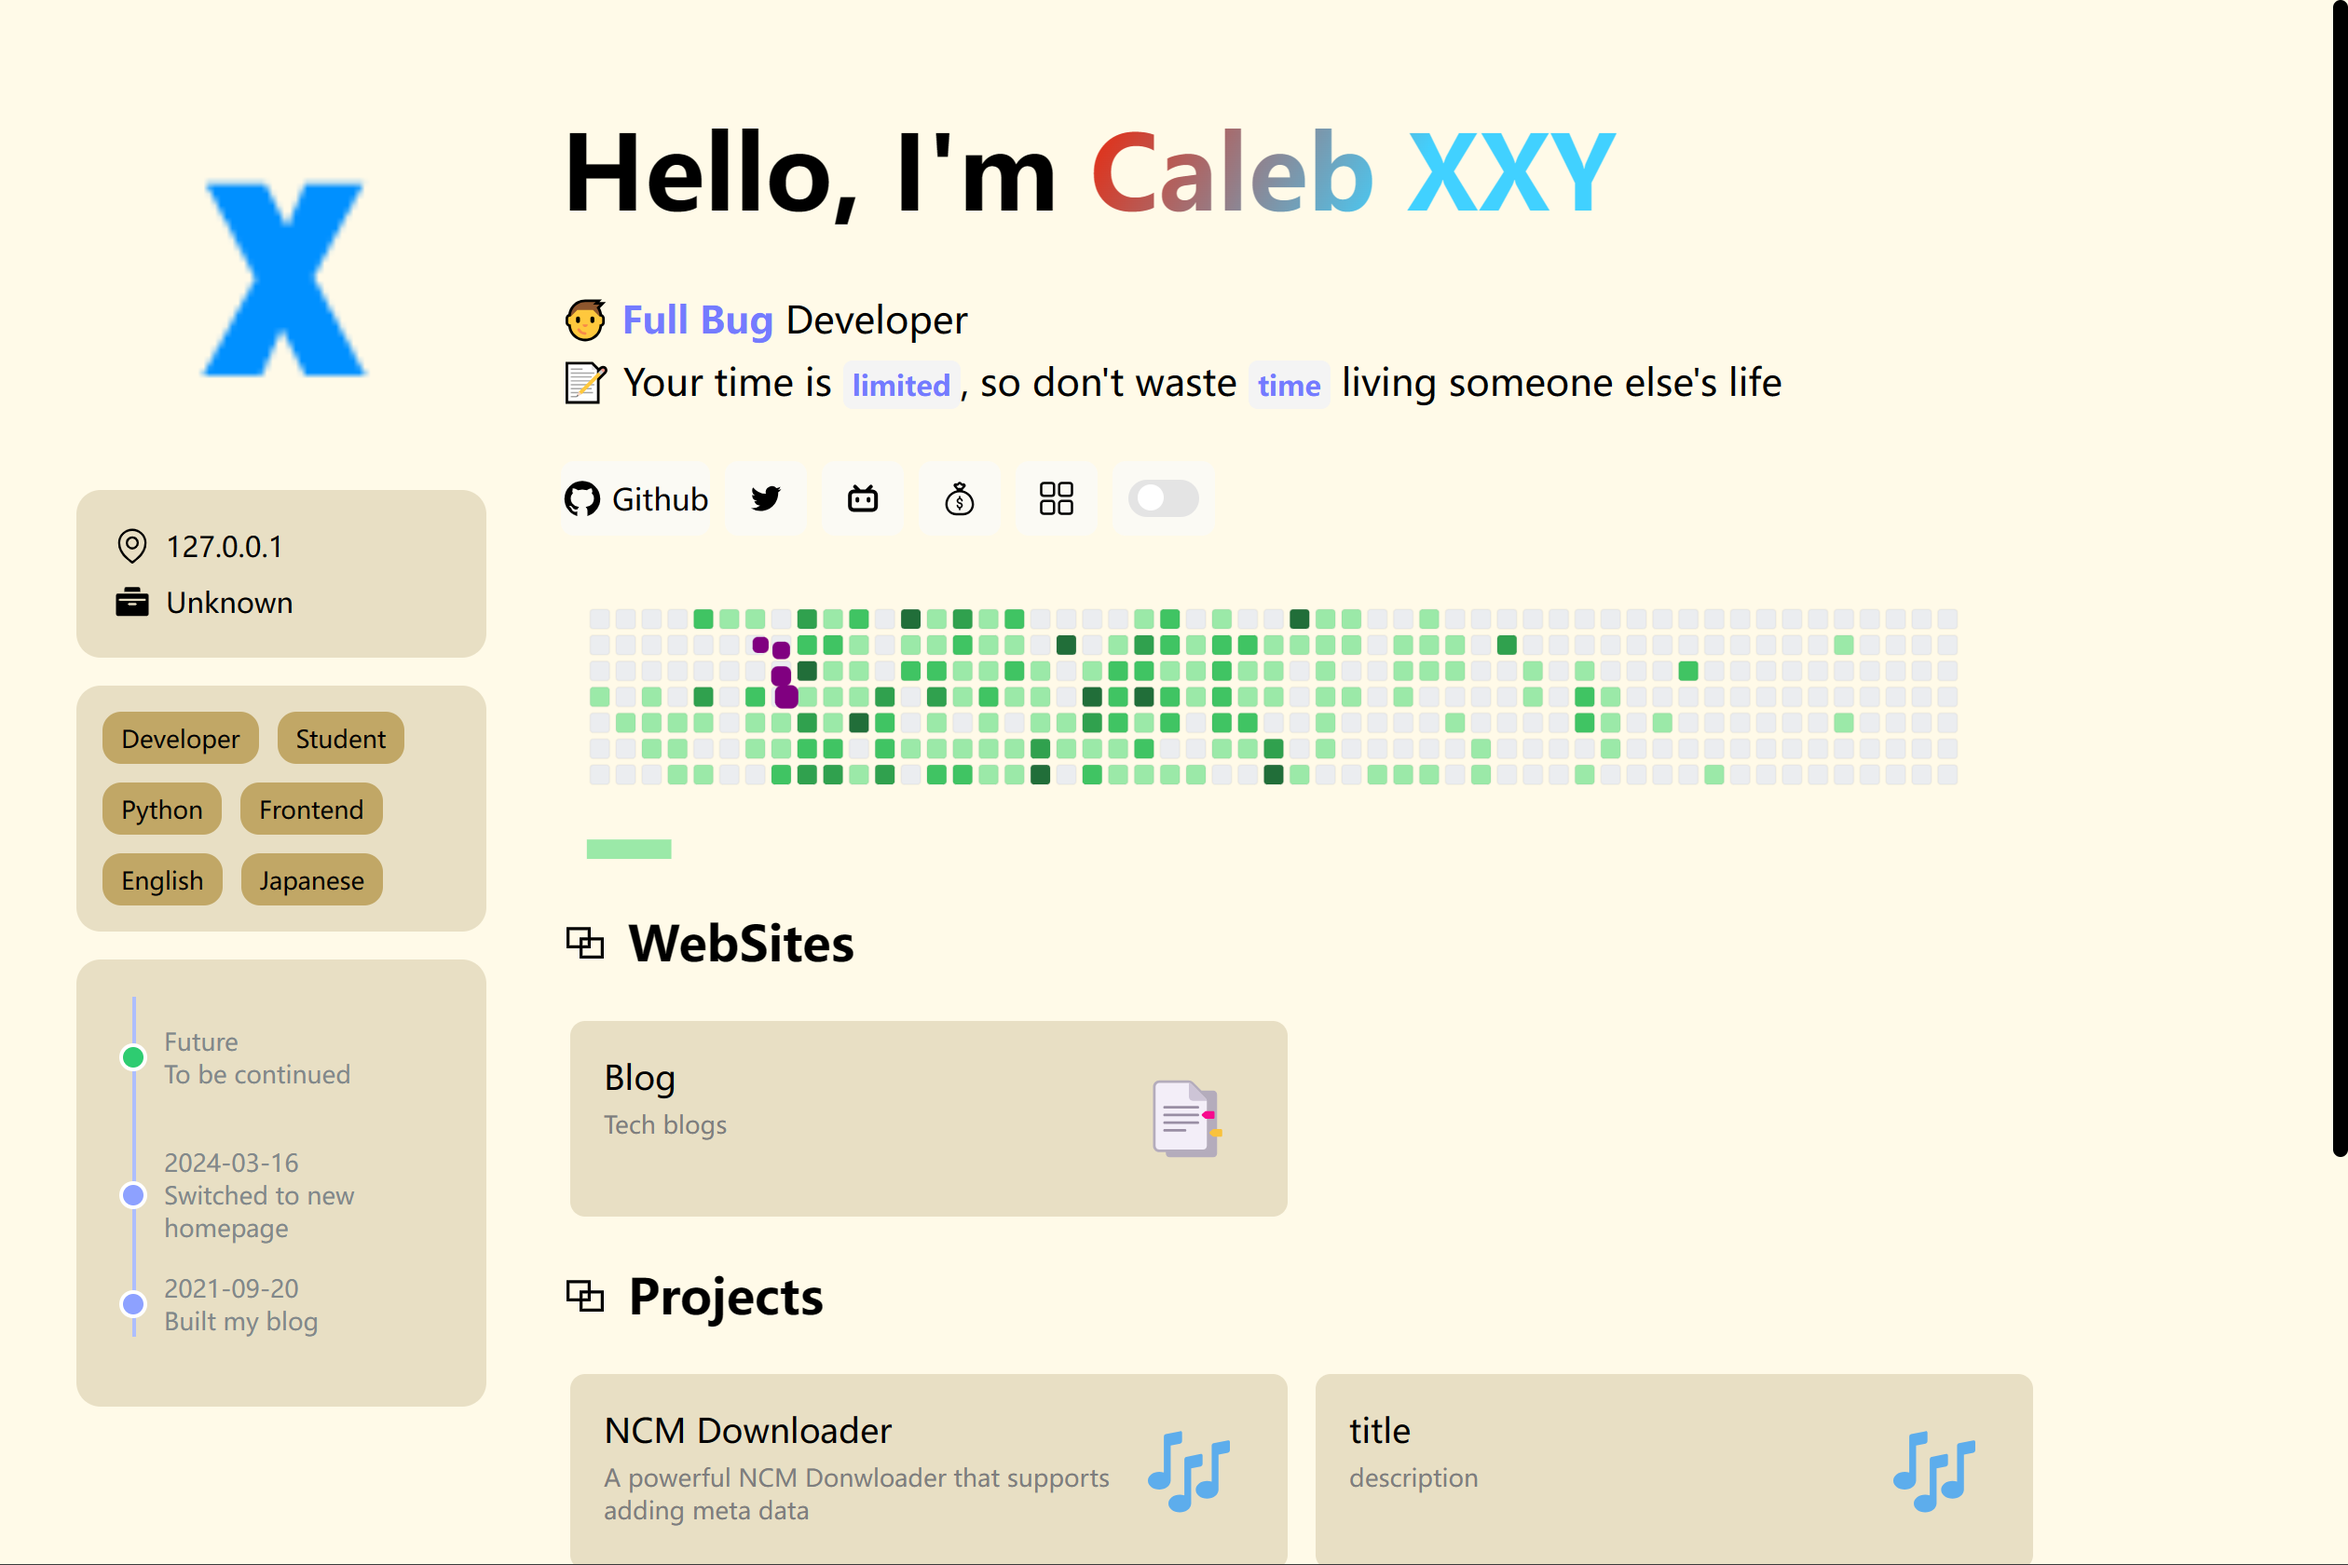
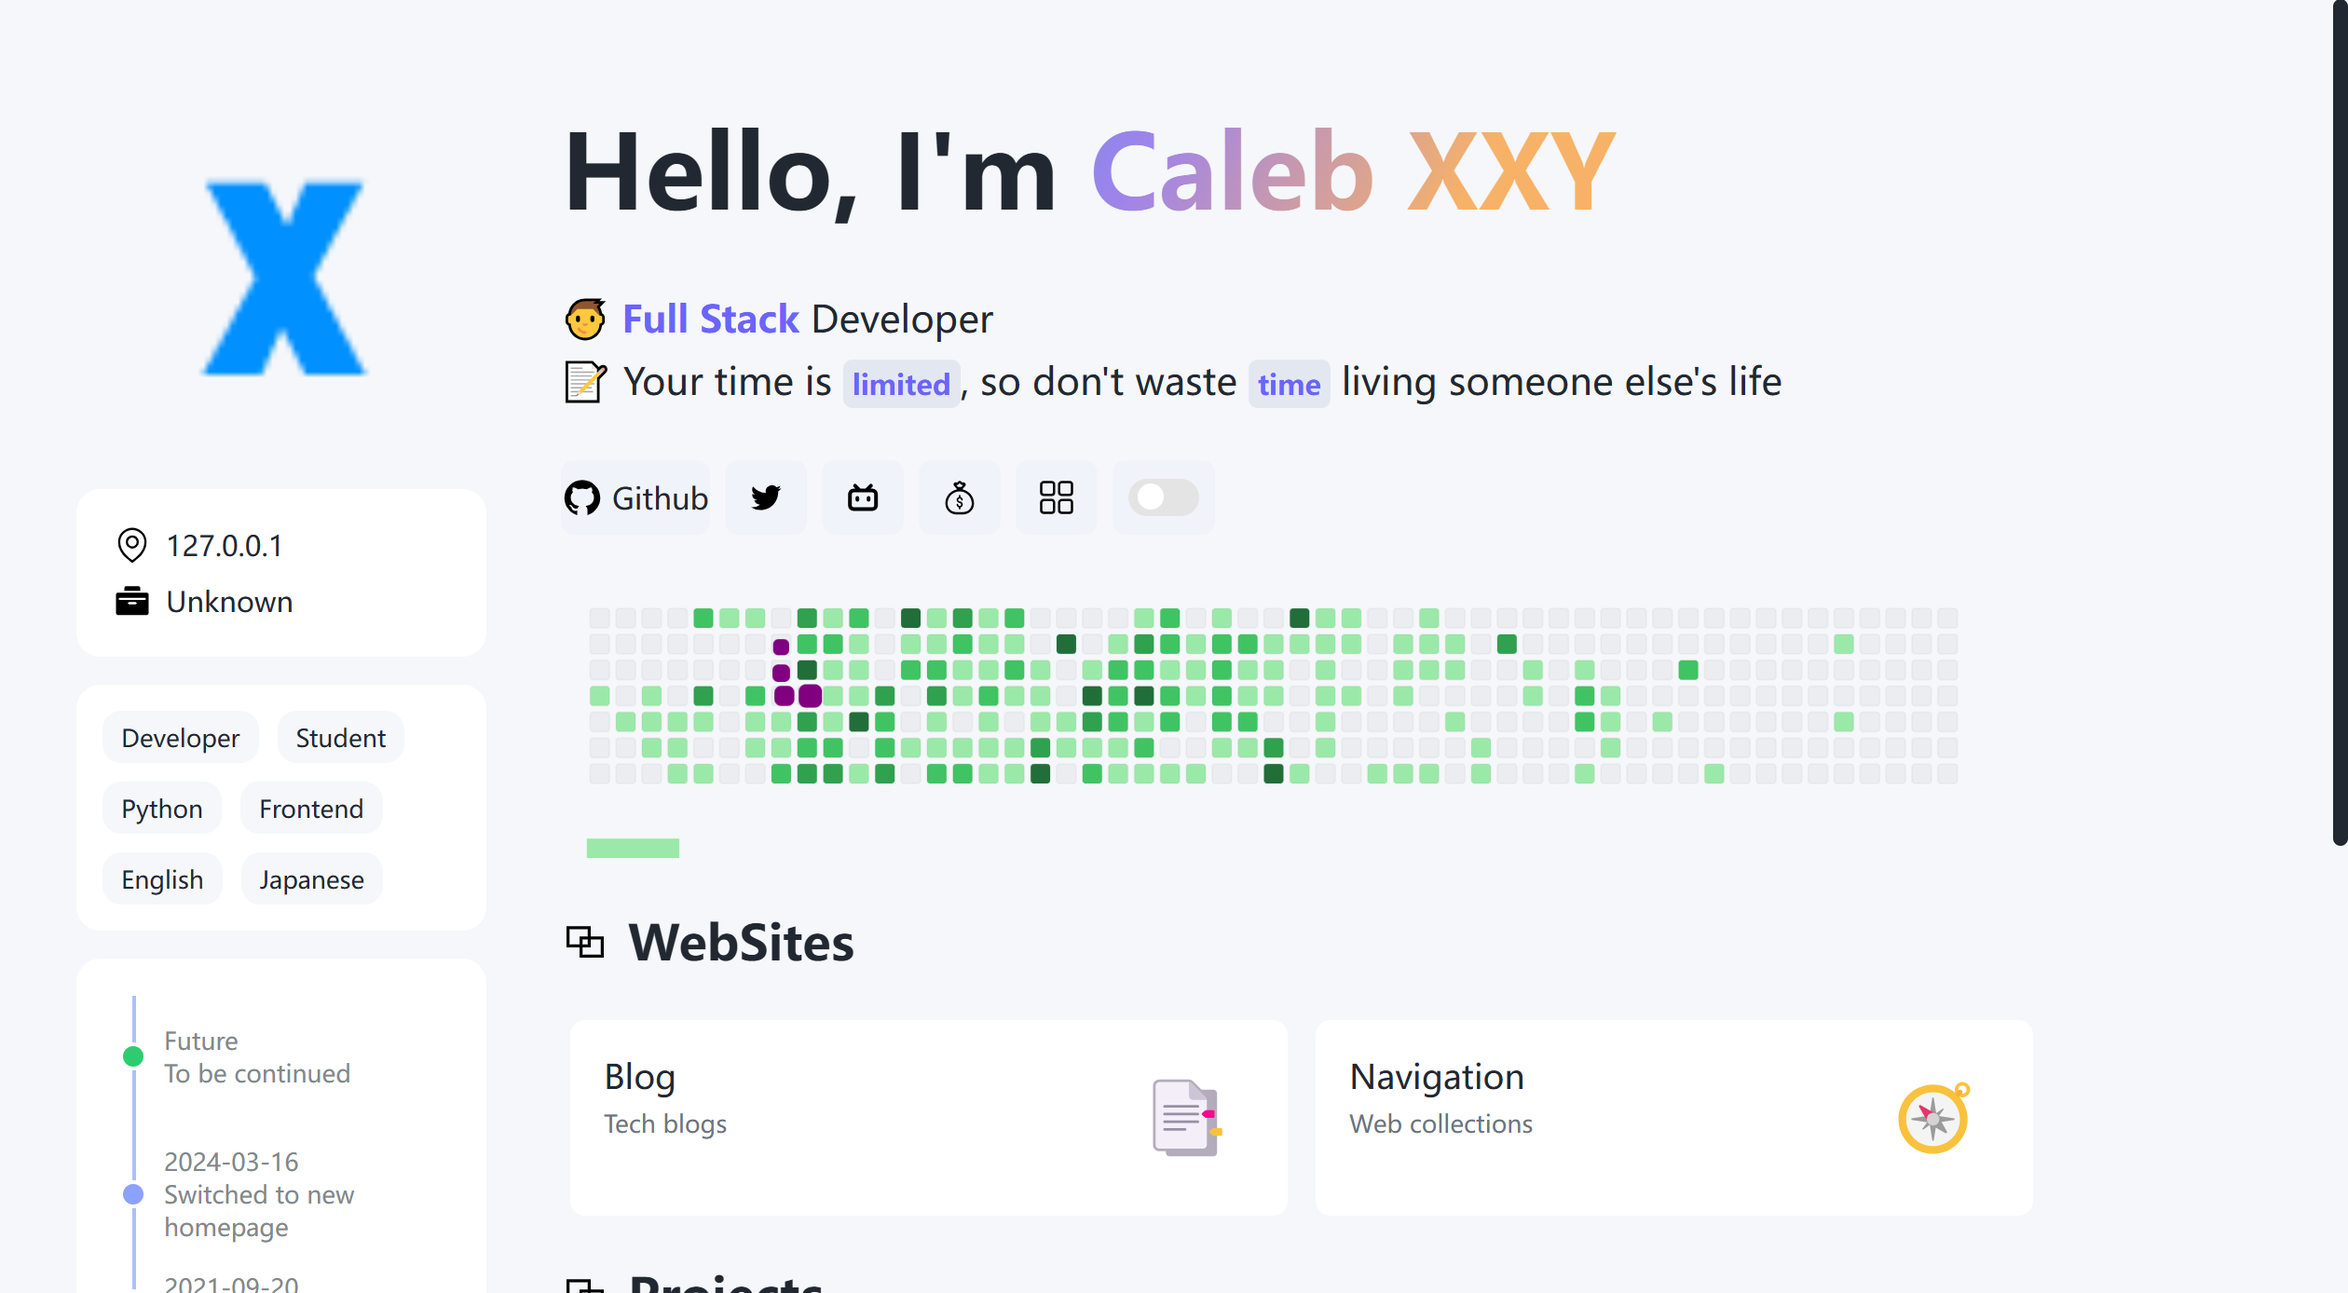
feat new design of light mode

diff --git a/static/css/style.css b/static/css/style.css
@@ -12,6 +12,26 @@
     font-display: swap;
 }
 
+:root {
+    --main-bg-color: #f5f7fa;
+    --main-text-color: #222831;
+    --gradient-start: #4f8cff;
+    --gradient-middle: #a084e8;
+    --gradient-end: #f7b267;
+    --purple-text-color: #6c63ff;
+    --text-bg-color: #e3e8f0;
+    --icon-bg-color: #f0f4fa;
+    --project-item-bg-color: #ffffff;
+    --project-item-hover-color: #f0f4fa;
+    --project-item-left-title-color: #222831;
+    --project-item-left-text-color: #6c757d;
+    --footer-text-color: #8a99b3;
+    --icon-1-hover-color: #e3e8f0;
+    --icon-2-hover-color: #e3e8f0;
+    --icon-3-hover-color: #e3e8f0;
+    --icon-4-hover-color: #e3e8f0;
+    --icon-5-hover-color: #e3e8f0;
+}
 
 * {
     font-family: "b", "a", sans-serif;
@@ -45,7 +65,7 @@ a:focus {
 }
 
 ::-webkit-scrollbar-thumb {
-    background-color: var(--main-text-color, #000000);
+    background-color: var(--main-text-color);
     border-radius: 8px;
     height: 20%;
 }
@@ -64,20 +84,17 @@ html[data-theme="dack"] {
     --purple-text-color: #747bff;
     --text-bg-color: rgb(26, 4, 48);
     --icon-bg-color: rgb(19, 20, 24);
-    /*--icon-1-hover-color: rgb(68, 120, 241);*/
-    /*--icon-2-hover-color: rgb(232, 68, 241);*/
-    /*--icon-3-hover-color: rgb(179, 206, 0);*/
-    /*--icon-4-hover-color: rgb(201, 13, 0);*/
-    /*--icon-5-hover-color: rgb(111, 44, 20);*/
     --project-item-bg-color: rgb(19, 20, 24);
     --project-item-hover-color: rgb(31, 33, 35);
     --project-item-left-title-color: rgb(255, 255, 255);
     --project-item-left-text-color: rgb(142, 142, 142);
     --footer-text-color: #646464;
+    --icon-1-hover-color: rgb(34, 39, 46);
+    --icon-2-hover-color: rgb(0, 172, 238);
+    --icon-3-hover-color: rgb(251, 114, 153);
+    --icon-4-hover-color: rgb(248, 113, 113);
+    --icon-5-hover-color: rgb(31, 33, 35);
 }
-
-
-
 
 
 body {
@@ -85,15 +102,15 @@ body {
     height: 100%;
     min-height: 100vh;
     width: 100%;
-    background: var(--main-bg-color, #fffae8);
+    background: var(--main-bg-color);
     overflow-x: hidden;
     justify-content: center;
-    color: var(--main-text-color, #000000);
+    color: var(--main-text-color);
 
 }
 
 #PageLoading {
-    background: radial-gradient(white, #d8eaff);
+    background: radial-gradient(white);
     background-size: 100%;
     background-position: center;
     background-color: #ffffff;
@@ -251,7 +268,7 @@ body {
     border-radius: 13px;
     margin-top: 15px;
     padding: 20px;
-    background: var(--project-item-bg-color, #e8dfc4);
+    background: var(--project-item-bg-color);
     /* rgba(249, 250, 251, 0.6) */
 }
 
@@ -287,7 +304,7 @@ body {
     padding: 10px;
     font-size: 13px;
     border-radius: 10px;
-    background: var(--main-bg-color, rgb(193, 167, 102));
+    background: var(--main-bg-color);
 
 }
 
@@ -392,13 +409,13 @@ body {
 }
 
 .purpleText {
-    color: var(--purple-text-color, #747bff);
+    color: var(--purple-text-color);
     font-weight: 800;
 }
 
 .textBackground {
     font-weight: 800;
-    background: var(--text-bg-color, #f4f4f4);
+    background: var(--text-bg-color);
     border-radius: 5px;
     font-size: 15px;
     padding: 3px 5px;
@@ -426,7 +443,7 @@ body {
     width: 44px;
     height: 40px;
     box-sizing: border-box;
-    background: var(--icon-bg-color, rgba(249, 250, 251, 0.6));
+    background: var(--icon-bg-color);
     border-radius: 7px;
     display: flex;
     gap: 5px;
@@ -440,7 +457,7 @@ body {
     width: 80px;
     height: 40px;
     box-sizing: border-box;
-    background: var(--icon-bg-color, rgba(249, 250, 251, 0.6));
+    background: var(--icon-bg-color);
     border-radius: 7px;
     display: flex;
     gap: 5px;
@@ -465,23 +482,23 @@ body {
 
 
 .iconItemLong:nth-child(1):hover {
-    background: var(--icon-1-hover-color, rgb(34, 39, 46));
+    background: var(--icon-1-hover-color);
 }
 
 .iconItem:nth-child(2):hover {
-    background: var(--icon-2-hover-color, rgb(0, 172, 238));
+    background: var(--icon-2-hover-color);
 }
 
 .iconItem:nth-child(3):hover {
-    background: var(--icon-3-hover-color, rgb(251, 114, 153));
+    background: var(--icon-3-hover-color);
 }
 
 .iconItem:nth-child(4):hover {
-    background: var(--icon-4-hover-color, rgb(248, 113, 113));
+    background: var(--icon-4-hover-color);
 }
 
 .iconItem:nth-child(5):hover {
-    background: var(--icon-5-hover-color, rgb(31, 33, 35));
+    background: var(--icon-5-hover-color);
 }
 
 .iconItem:hover .iconTip {
@@ -491,7 +508,7 @@ body {
 .switch:hover {
     width: 55px;
 
-    background: var(--icon-5-hover-color, rgb(31, 33, 35));
+    background: var(--icon-5-hover-color);
 }
 
 .tanChiShe {
@@ -527,7 +544,7 @@ body {
 
 .projectItem {
     display: flex;
-    background-color: var(--project-item-bg-color, #e8dfc4);
+    background-color: var(--project-item-bg-color);
     border-radius: 8px;
     padding: 18px;
     height: 105px;
@@ -537,7 +554,7 @@ body {
 
 .projectItem:hover {
     box-shadow: 0 8px 16px -4px #2c2d300c;
-    background-color: var(--project-item-hover-color, #dac99b);
+    background-color: var(--project-item-hover-color);
 }
 
 
@@ -545,7 +562,7 @@ body {
 .projectItemLeft p {
     font-size: 13px;
     margin-top: 5px;
-    color: var(--project-item-left-text-color, #7e7e7e);
+    color: var(--project-item-left-text-color);
 }
 
 .projectItemLeft h1 {
@@ -554,7 +571,7 @@ body {
     margin: 0px;
 
     transition: all 0.4s ease;
-    color: var(--project-item-left-title-color, #000000);
+    color: var(--project-item-left-title-color);
 }
 
 .projectItemLeft {
@@ -697,7 +714,7 @@ footer {
         /*侧边栏隐藏在屏外宽度*/
         padding: 15px;
         box-sizing: border-box;
-        background: var(--main-bg-color, linear-gradient(50deg, #a2d1ff, #ffffff));
+        background: var(--main-bg-color);
         transition: all 0.25s ease-out;
     }
 
@@ -777,7 +794,7 @@ footer {
     align-items: center;
     height: 40px;
     width: 40px;
-      background-color: var(--project-item-bg-color, rgba(249, 250, 251, 0.6));
+      background-color: var(--project-item-bg-color);
     margin-top: 30px;
     border-radius: 50%;
 }

diff --git a/index.html b/index.html
@@ -1,7 +1,7 @@
 <!DOCTYPE html>
-<html class="zyyo.net">
+<html>
 
-<head class="zyyo.net">
+<head>
     <meta charset="utf-8">
     <meta http-equiv="X-UA-Compatible" content="IE=edge">
     <title>Hello, I'm Caleb</title>
@@ -240,14 +240,14 @@
                     <!-- 项目项结束 -->
                 </a>
                 <!---->
-                <a class="projectItem" target="_blank" href="https://xuxiny.top/">
+                <a class="projectItem" target="_blank" href="https://github.com/xxynet/HomePage">
                     <!-- 项目项开始 -->
                     <div class="projectItemLeft">
-                        <h1>title</h1>
-                        <p>description</p>
+                        <h1>HomePage</h1>
+                        <p>An elegant personal honepage</p>
                     </div>
                     <div class="projectItemRight">
-                        <img src="./static/img/music.svg" alt="">
+                        <img src="./static/img/home.svg" alt="">
                     </div>
                     <!-- 项目项结束 -->
                 </a>
